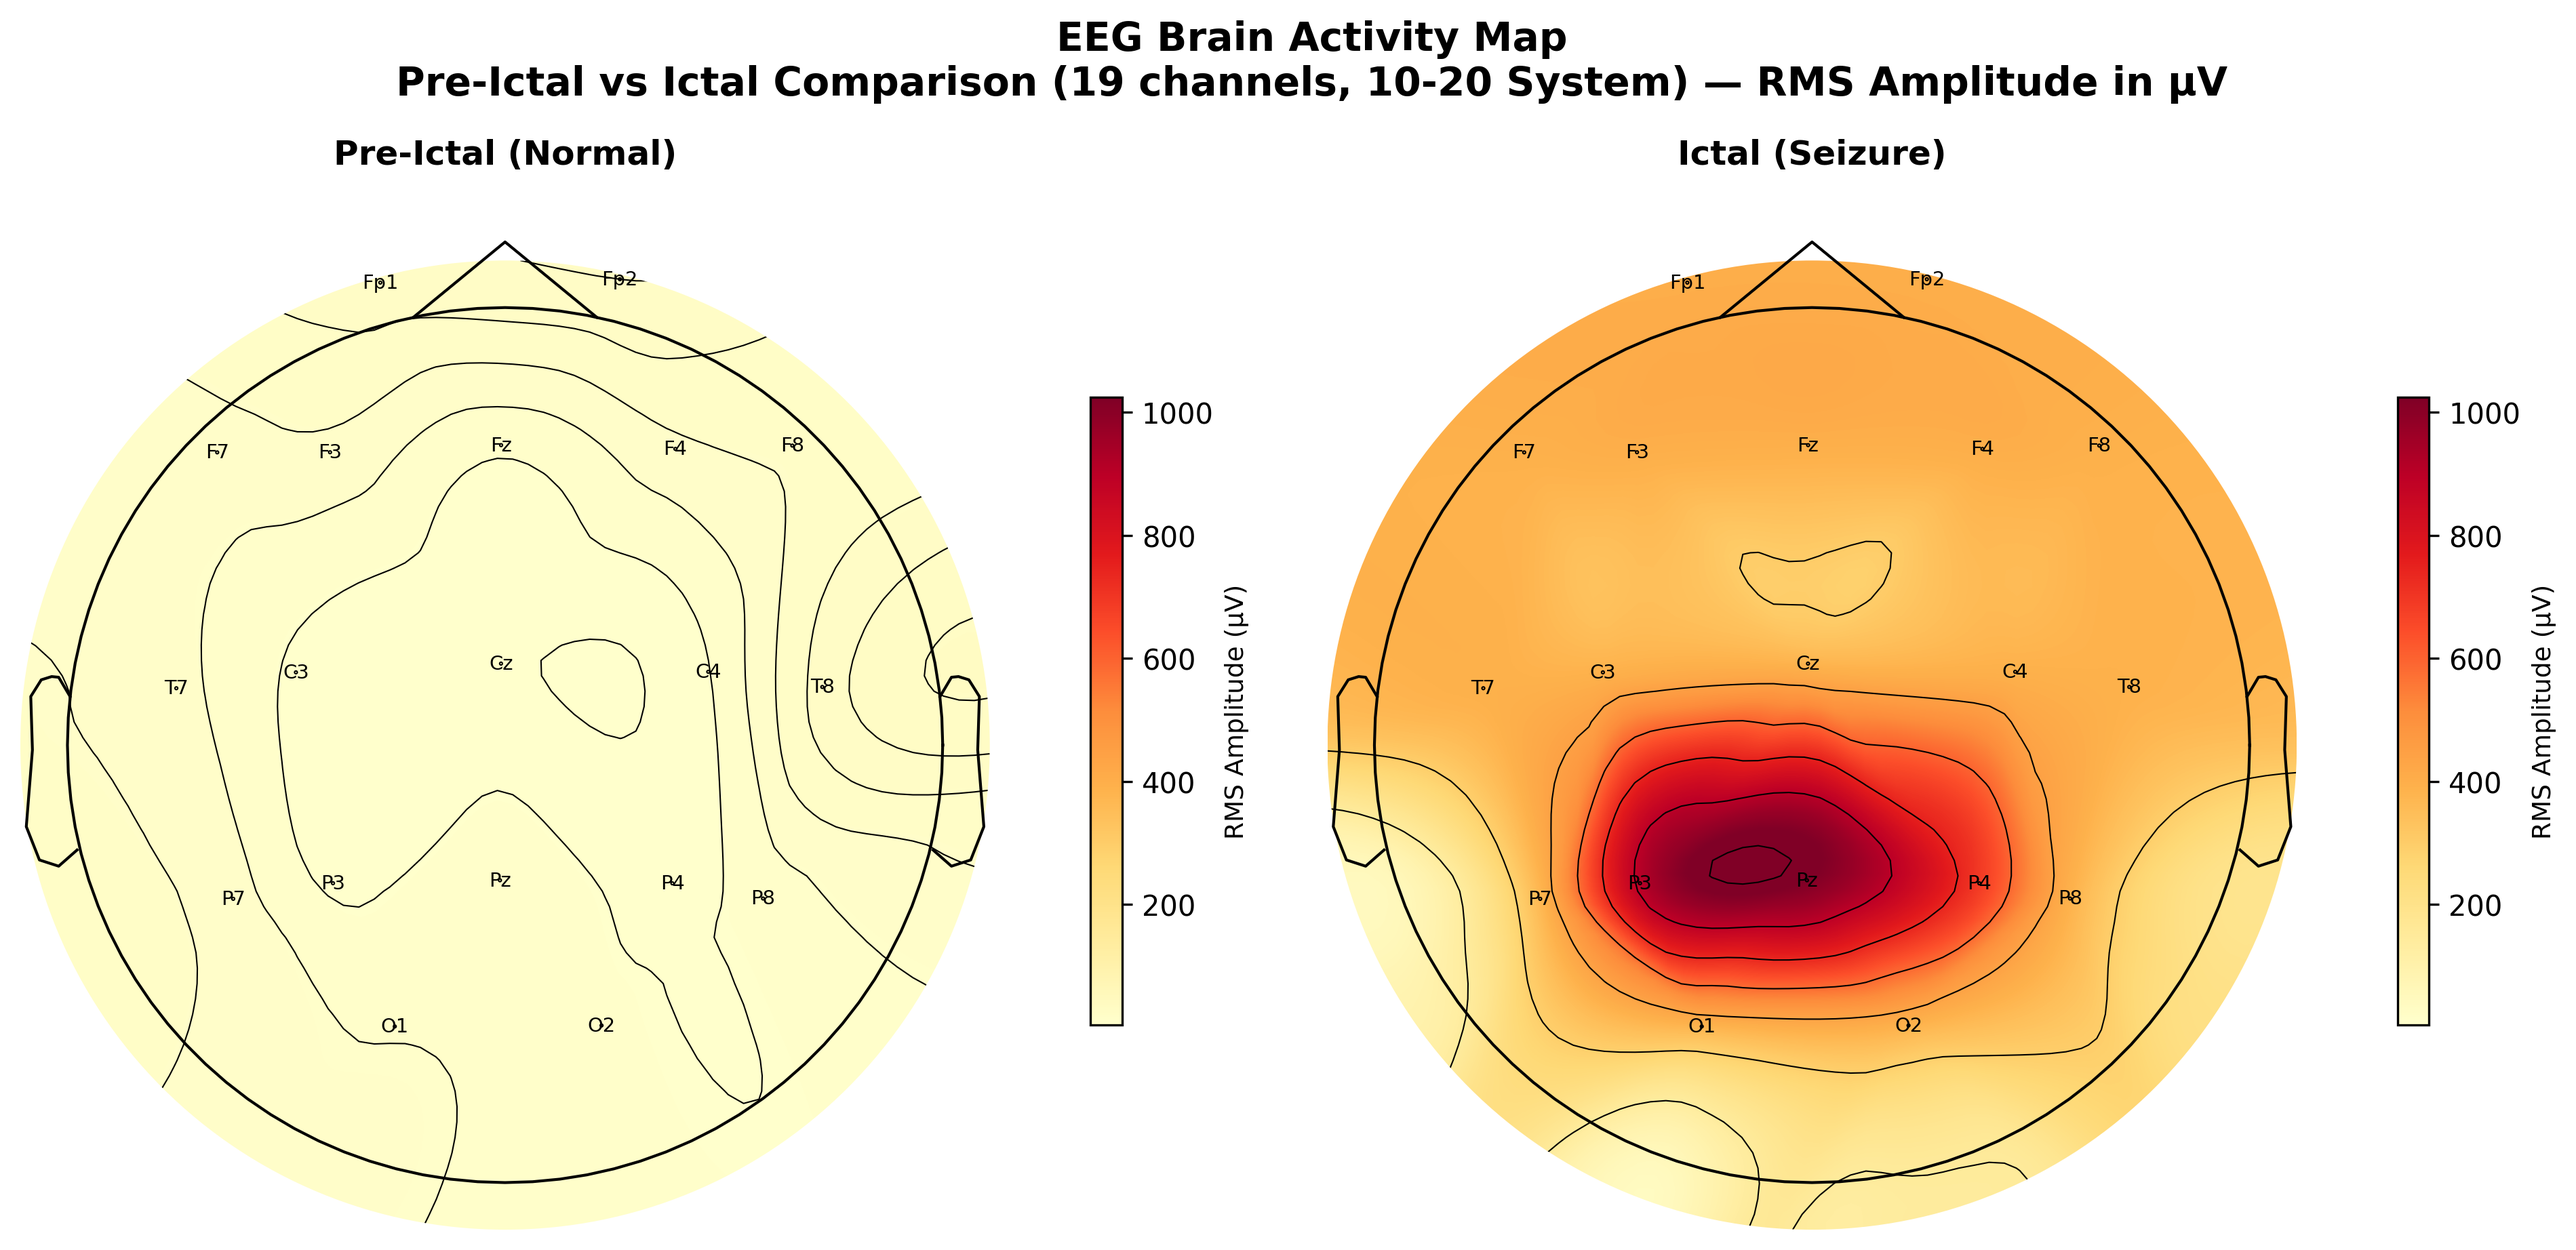
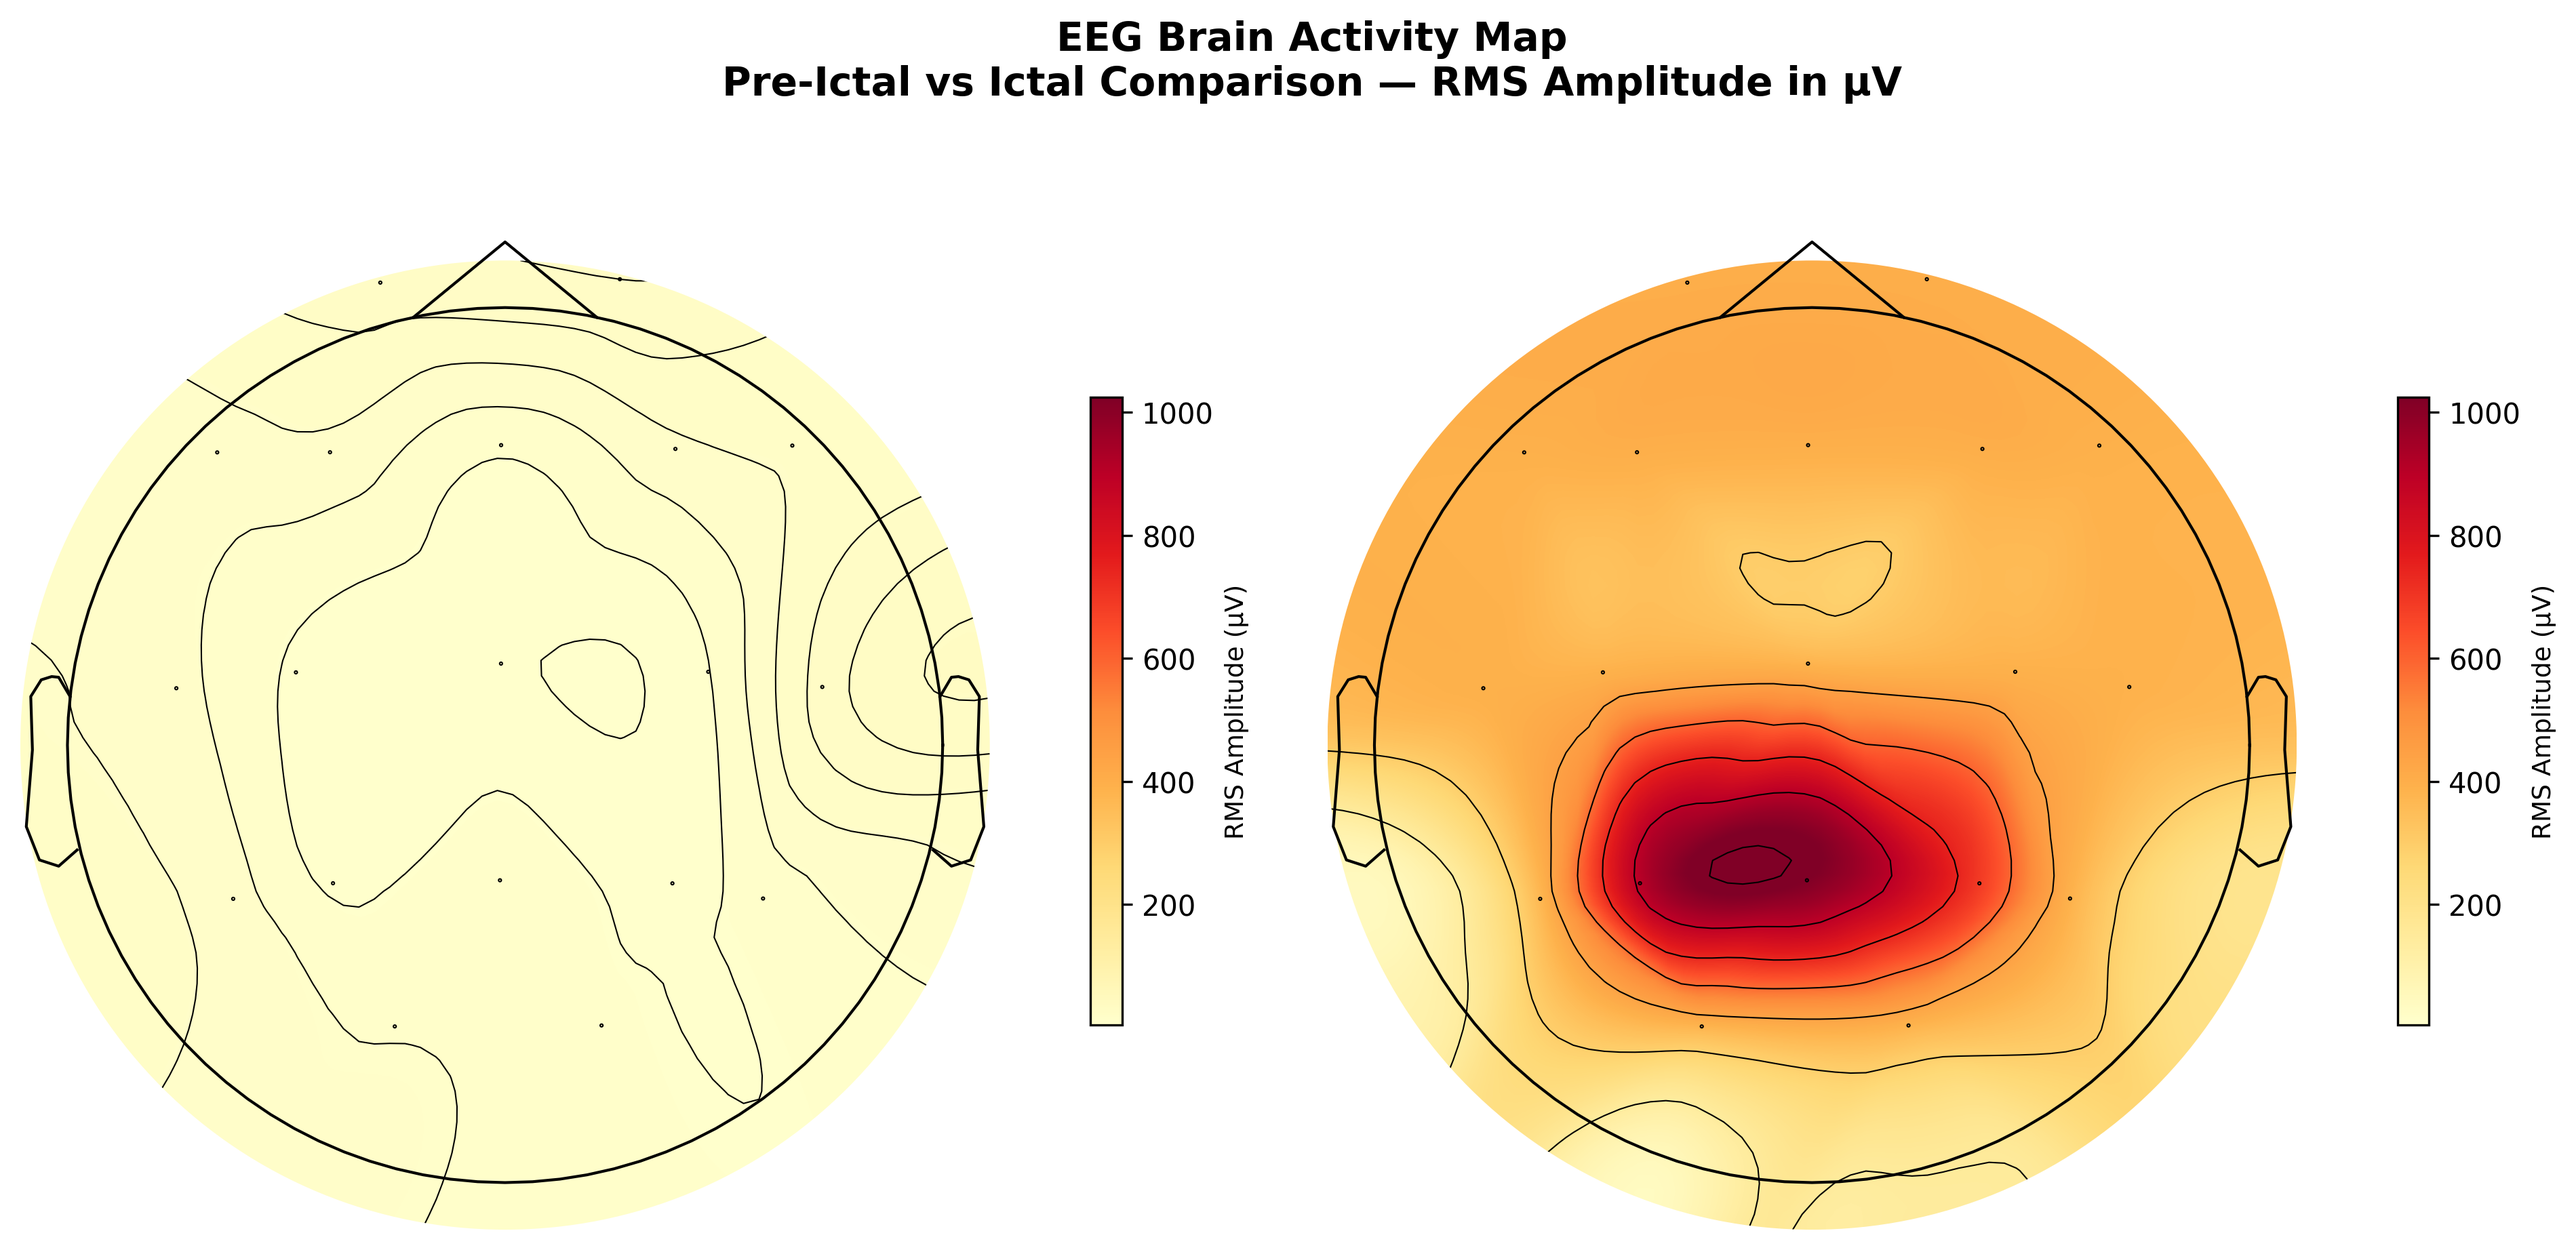
shap beeswarm

Changed region(s): [[0.1242, 0.0309, 0.8697, 0.1546]]

diff --git a/experimentation/classic/shap_xgb_standalone.py b/experimentation/classic/shap_xgb_standalone.py
@@ -1,0 +1,139 @@
+"""
+SHAP Visualizations for XGBoost (standalone)
+Loads saved pipeline + selector from joblib and generates:
+  1. Beeswarm plot (top 20 features)
+  2. Violin plot (top 20 features)
+  3. Bar plot (mean |SHAP|)
+
+No need to re-run ml_experiments.py
+"""
+
+import joblib
+import pandas as pd
+import numpy as np
+import shap
+import matplotlib
+matplotlib.use('Agg')
+import matplotlib.pyplot as plt
+from pathlib import Path
+import warnings
+warnings.filterwarnings('ignore')
+import matplotlib.colors as mcolors
+
+
+# ============================================================
+# CONFIGURATION — change suffix to match your experiment
+# ============================================================
+SUFFIX = "_ml1"  # "" for original, "_ml1" for experiment 1
+TOP_K = 20       # Number of features for beeswarm/violin
+
+# Paths
+PIPELINE_PATH = f"data/processed/models/pipeline_xgb{SUFFIX}.joblib"
+SELECTOR_PATH = f"data/processed/models/selector_xgb{SUFFIX}.joblib"
+FEATURES_TEST_PATH = f"data/processed/features_test{SUFFIX}.csv"
+LABELS_TEST_PATH = f"data/processed/labels_test{SUFFIX}.csv"
+FEATURES_TRAIN_PATH = f"data/processed/features_train{SUFFIX}.csv"
+OUTPUT_DIR = Path(f"images/xai")
+
+
+def main():
+    print("=" * 60)
+    print("  SHAP Visualizations — XGBoost")
+    print(f"  Suffix: '{SUFFIX}'")
+    print("=" * 60)
+    
+    # Load pipeline and selector
+    print(f"\nLoading pipeline: {PIPELINE_PATH}")
+    pipeline = joblib.load(PIPELINE_PATH)
+    
+    print(f"Loading selector: {SELECTOR_PATH}")
+    selector = joblib.load(SELECTOR_PATH)
+    
+    # Load features and labels
+    print(f"Loading test features: {FEATURES_TEST_PATH}")
+    X_test_full = pd.read_csv(FEATURES_TEST_PATH, index_col=0)
+    y_test = pd.read_csv(LABELS_TEST_PATH, index_col=0).values.ravel()
+    
+    print(f"Loading train features: {FEATURES_TRAIN_PATH}")
+    X_train_full = pd.read_csv(FEATURES_TRAIN_PATH, index_col=0)
+    
+    # Apply feature selection (reorder columns to match selector's expected order)
+    expected_cols = list(selector.feature_names_in_)
+    X_test_full = X_test_full[expected_cols]
+    X_train_full = X_train_full[expected_cols]
+    
+    selected_mask = selector.get_support()
+    feature_names = list(X_test_full.columns[selected_mask])
+    X_test = selector.transform(X_test_full)
+    X_train = selector.transform(X_train_full)
+    
+    print(f"\nFeatures selected: {len(feature_names)}")
+    print(f"Test samples: {X_test.shape[0]}")
+    
+    # Get XGBoost estimator from pipeline
+    estimator = pipeline.steps[-1][1]
+    print(f"Model: {type(estimator).__name__}")
+    
+    # Compute SHAP values using TreeExplainer (exact for XGBoost)
+    print("\nComputing SHAP values with TreeExplainer...")
+    explainer = shap.TreeExplainer(estimator)
+    shap_values = explainer.shap_values(X_test)
+    
+    # Handle format: list [class_0, class_1] or single array
+    if isinstance(shap_values, list) and len(shap_values) == 2:
+        shap_pos = shap_values[1]  # Class 1 = Seizure
+    elif isinstance(shap_values, np.ndarray) and shap_values.ndim == 3:
+        shap_pos = shap_values[:, :, 1]
+    else:
+        shap_pos = shap_values
+    
+    print(f"SHAP values shape: {shap_pos.shape}")
+    
+    # Mean absolute SHAP
+    mean_abs_shap = np.abs(shap_pos).mean(axis=0)
+    
+    # Top K features
+    top_indices = np.argsort(mean_abs_shap)[::-1][:TOP_K]
+    top_feature_names = [feature_names[i] for i in top_indices]
+    shap_top = shap_pos[:, top_indices]
+    X_display_top = X_test[:, top_indices]
+    
+    # Create output directory
+    OUTPUT_DIR.mkdir(parents=True, exist_ok=True)
+
+    print(f"\nGenerating beeswarm plot (top {TOP_K})...")
+    plt.figure(figsize=(10, 8))
+    
+    cmap_inverted = matplotlib.colors.LinearSegmentedColormap.from_list(
+        "shap_inverted", ["#1f77d0", "#ffffff", "#d62728"]
+    )
+    shap.plots.colors.red_blue = cmap_inverted 
+
+    shap.summary_plot(
+        shap_top,
+        features=X_display_top,
+        feature_names=top_feature_names,
+        plot_type="dot",
+        max_display=TOP_K,
+        show=False,
+        plot_size=None,
+    )
+    plt.title(f"SHAP Beeswarm — XGBoost (Top {TOP_K})", fontsize=13, fontweight='bold')
+    plt.tight_layout()
+    path = OUTPUT_DIR / f"xgb_shap_beeswarm{SUFFIX}.png"
+    plt.savefig(path, dpi=300, bbox_inches='tight')
+    plt.close()
+    print(f"  ✓ Saved: {path}")
+    
+    # Print top features summary
+    print(f"\n{'='*60}")
+    print(f"  TOP {TOP_K} FEATURES BY MEAN |SHAP|")
+    print(f"{'='*60}")
+    for i, idx in enumerate(top_indices):
+        print(f"  {i+1:2d}. {feature_names[idx]:<45s} {mean_abs_shap[idx]:.6f}")
+    
+    print(f"\n✓ All SHAP plots saved to: {OUTPUT_DIR}/")
+
+
+if __name__ == "__main__":
+    main()

diff --git a/experimentation/classic/brain_topomap.py b/experimentation/classic/brain_topomap.py
@@ -140,13 +140,9 @@ def main():
         vlim=(vmin_abs, vmax_abs),
         contours=6,
         sensors=True,
-        names=ch_names,
+        names=None,
     )
-    axes[0].set_title(
-        'Pre-Ictal (Normal)',
-        fontsize=12, fontweight='bold', pad=10
-    )
-    
+
     # --- 2. Ictal Topomap ---
     im2, _ = mne.viz.plot_topomap(
         ictal_power_uv, info, axes=axes[1],
@@ -154,11 +150,7 @@ def main():
         vlim=(vmin_abs, vmax_abs),
         contours=6,
         sensors=True,
-        names=ch_names,
-    )
-    axes[1].set_title(
-        'Ictal (Seizure)',
-        fontsize=12, fontweight='bold', pad=10
+        names=None,
     )
     
     # Add colorbars
@@ -171,7 +163,7 @@ def main():
     # Suptitle
     fig.suptitle(
         'EEG Brain Activity Map\n'
-        'Pre-Ictal vs Ictal Comparison (19 channels, 10-20 System) — RMS Amplitude in µV',
+        'Pre-Ictal vs Ictal Comparison — RMS Amplitude in µV',
         fontsize=14, fontweight='bold', y=1.02
     )
     
